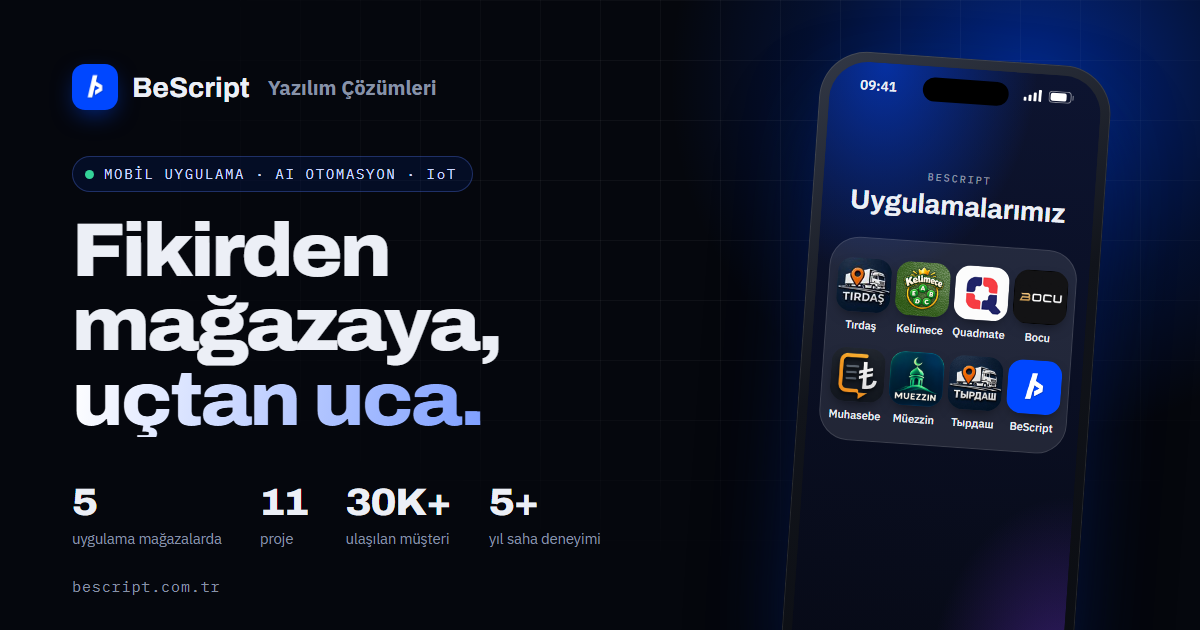
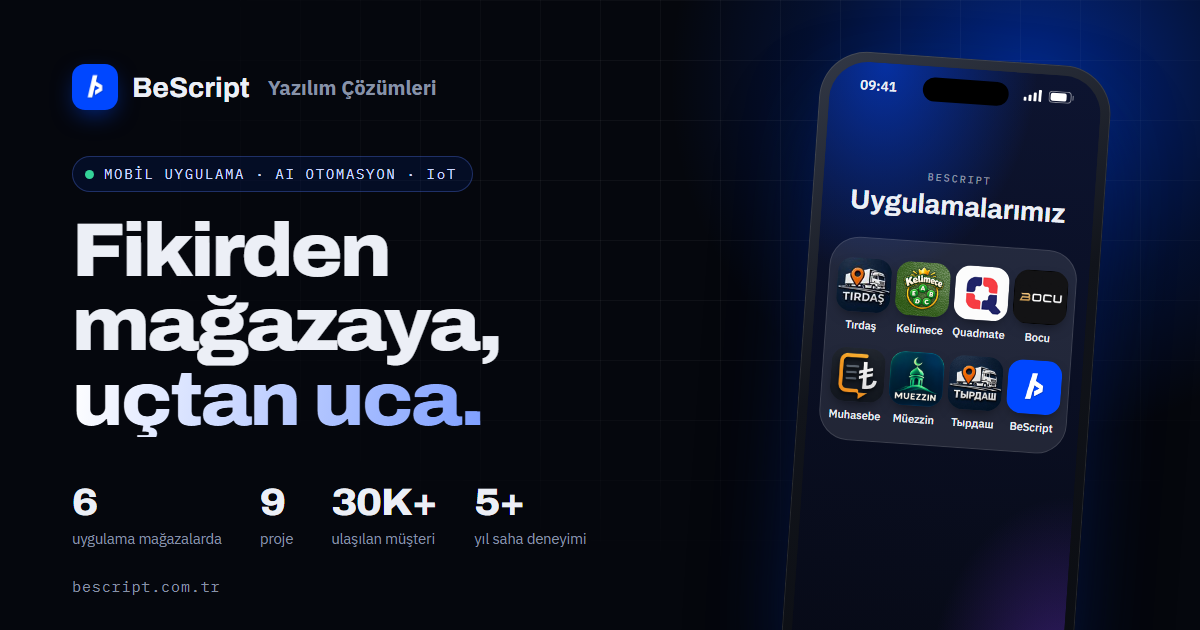
Hazır paketler kayan şerit; Тырдаш (Tirdas.kz) Google Play'de yayında, vitrine taşındı; RED-i ve CleanHome kaldırıldı

Changed region(s): [[0.2158, 0.754, 0.4933, 0.8746], [0.0617, 0.7841, 0.0925, 0.8143]]

diff --git a/index.html b/index.html
@@ -18,11 +18,11 @@
 <meta property="og:url" content="https://bescript.com.tr/">
 <meta property="og:title" content="BeScript Yazılım Çözümleri — Mobil Uygulama, AI Otomasyon ve IoT">
 <meta property="og:description" content="BeScript Yazılım Çözümleri — Kartepe/Kocaeli. Mobil uygulama, AI otomasyon ve IoT sistemleri; tasarımdan mağaza yayınına uçtan uca. Canlı sistemler ve interaktif demolar.">
-<meta property="og:image" content="https://bescript.com.tr/og-image.png?v=3">
+<meta property="og:image" content="https://bescript.com.tr/og-image.png?v=5">
 <meta name="twitter:card" content="summary_large_image">
 <meta name="twitter:title" content="BeScript Yazılım Çözümleri — Mobil Uygulama, AI Otomasyon ve IoT">
 <meta name="twitter:description" content="BeScript Yazılım Çözümleri — Kartepe/Kocaeli. Mobil uygulama, AI otomasyon ve IoT sistemleri; tasarımdan mağaza yayınına uçtan uca. Canlı sistemler ve interaktif demolar.">
-<meta name="twitter:image" content="https://bescript.com.tr/og-image.png?v=3">
+<meta name="twitter:image" content="https://bescript.com.tr/og-image.png?v=5">
 <link rel="preconnect" href="https://fonts.googleapis.com">
 <link rel="preconnect" href="https://fonts.gstatic.com" crossorigin>
 <link href="https://fonts.googleapis.com/css2?family=Archivo:wdth,wght@62..125,400..900&family=IBM+Plex+Sans:wght@400;500;600&family=IBM+Plex+Mono:wght@400;500&display=swap" rel="stylesheet">
@@ -288,7 +288,7 @@ a.badge:hover{transform:translateY(-2px)}
 .others-title{display:flex;align-items:baseline;justify-content:space-between;gap:16px;margin:76px 0 22px;flex-wrap:wrap}
 .others-title h3{font-family:'Archivo',system-ui,sans-serif;font-variation-settings:'wdth' 100,'wght' 760;font-size:26px}
 .others-title span{color:var(--muted);font-size:14.5px}
-.others{display:grid;grid-template-columns:repeat(4,1fr);gap:14px}
+.others{display:grid;grid-template-columns:repeat(auto-fit,minmax(250px,1fr));gap:14px}
 .mini{padding:22px;border:1px solid var(--line);border-radius:20px;background:rgba(255,255,255,.022);
   display:flex;flex-direction:column;transition:border-color .3s,transform .4s var(--ease)}
 .mini:hover{border-color:var(--line-2);transform:translateY(-3px)}
@@ -306,8 +306,14 @@ a.badge:hover{transform:translateY(-2px)}
 .mini .more{margin-top:auto;padding-top:16px}
 
 /* ---------------------------------------------------------------- hazir cozumler */
-.sols{display:grid;grid-template-columns:repeat(4,1fr);gap:14px}
-.sol{padding:24px;border:1px solid var(--line);border-radius:20px;background:rgba(255,255,255,.022);display:flex;flex-direction:column}
+/* kayan serit: iki kopya yan yana, yarisi kadar kayinca basa doner */
+.kayan{overflow:hidden;padding:4px 0;
+  -webkit-mask-image:linear-gradient(90deg,transparent,#000 7%,#000 93%,transparent);mask-image:linear-gradient(90deg,transparent,#000 7%,#000 93%,transparent)}
+.kayan-iz{display:flex;gap:16px;width:max-content;padding-right:16px;animation:paket 80s linear infinite}
+.kayan:focus-within .kayan-iz,.kayan.dur .kayan-iz{animation-play-state:paused}
+@media(hover:hover){.kayan:hover .kayan-iz{animation-play-state:paused}}
+@keyframes paket{to{transform:translateX(-50%)}}
+.sol{width:300px;flex:none;padding:24px;border:1px solid var(--line);border-radius:20px;background:rgba(255,255,255,.022);display:flex;flex-direction:column}
 .sol h4{font-family:'Archivo',system-ui,sans-serif;font-variation-settings:'wdth' 100,'wght' 720;font-size:18px;line-height:1.25}
 .sol p{color:var(--muted);font-size:14.5px;margin-top:10px;line-height:1.55}
 .sol-act{display:flex;gap:8px;margin-top:auto;padding-top:20px}
@@ -365,7 +371,6 @@ footer{border-top:1px solid var(--line);padding:56px 0 40px;margin-top:120px}
   .hero-grid{grid-template-columns:1fr;gap:20px}
   .stage{height:690px;max-width:560px;margin:10px auto 0;width:100%}
   .apps{grid-template-columns:1fr}
-  .others,.sols{grid-template-columns:repeat(2,1fr)}
   .grid-3{grid-template-columns:repeat(2,1fr)}
   .process{grid-template-columns:1fr;gap:40px}
   .process .sec-head{position:static}
@@ -379,10 +384,8 @@ footer{border-top:1px solid var(--line);padding:56px 0 40px;margin-top:120px}
   .stat:nth-child(2n){border-right:none}
   .stat:nth-child(n+3){border-bottom:none}
   .grid-3,.others,.prs{grid-template-columns:1fr}
-  .sols{grid-auto-flow:column;grid-template-columns:none;grid-auto-columns:82%;overflow-x:auto;scroll-snap-type:x mandatory;
-    padding-bottom:10px;margin:0 -24px;padding-left:24px;padding-right:24px;scrollbar-width:none}
-  .sols::-webkit-scrollbar{display:none}
-  .sol{scroll-snap-align:start}
+  .sol{width:270px}
+  .kayan-iz{animation-duration:60s}
   .app{grid-template-columns:1fr;min-height:0}
   .app-text{padding:28px 26px 8px}
   .app-stage{height:300px;overflow:hidden}
@@ -408,7 +411,8 @@ footer{border-top:1px solid var(--line);padding:56px 0 40px;margin-top:120px}
   .js [data-reveal],.js .hero [data-in]{opacity:0;transform:translateY(26px)}
 }
 @media (prefers-reduced-motion:reduce){
-  .float,.track,.pill i{animation:none}
+  .float,.track,.pill i,.kayan-iz{animation:none}
+  .kayan{overflow-x:auto}
   .win,.home{transition:none}
   *{transition-duration:.01ms!important}
 }
@@ -444,7 +448,7 @@ footer{border-top:1px solid var(--line);padding:56px 0 40px;margin-top:120px}
         <a class="btn btn-primary magnet" href="https://wa.me/905400010595?text=Merhaba%2C%20bir%20proje%20hakk%C4%B1nda%20konu%C5%9Fmak%20istiyorum." target="_blank" rel="noopener">Projenizi konuşalım <svg class="ok" viewBox="0 0 24 24" fill="none" stroke="currentColor" stroke-width="1.7" stroke-linecap="round" stroke-linejoin="round" aria-hidden="true"><path d="M5 12h14M13 6l6 6-6 6"/></svg></a>
         <a class="btn btn-ghost" href="#uygulamalar">Uygulamalarımızı görün</a>
       </div>
-      <div class="hero-note" data-in><span>Geliştirdiğimiz beş uygulama Google Play'de, ikisi App Store'da da yayında.</span></div>
+      <div class="hero-note" data-in><span>Geliştirdiğimiz altı uygulama Google Play'de, ikisi App Store'da da yayında.</span></div>
     </div>
 
     <div class="stage" id="stage">
@@ -470,8 +474,8 @@ footer{border-top:1px solid var(--line);padding:56px 0 40px;margin-top:120px}
 <section class="trust" aria-label="Özet">
   <div class="wrap">
     <div class="stats" data-reveal>
-      <div class="stat"><b data-count="5">5</b><span>uygulama mağazalarda</span></div>
-      <div class="stat"><b data-count="11">11</b><span>proje · canlı, test, yakında</span></div>
+      <div class="stat"><b data-count="6">6</b><span>uygulama mağazalarda</span></div>
+      <div class="stat"><b data-count="9">9</b><span>proje · canlı, test, yakında</span></div>
       <div class="stat"><b data-count="30" data-suffix="K+">30K+</b><span>tek sistemle ulaşılan müşteri</span></div>
       <div class="stat"><b data-count="5" data-suffix="+">5+</b><span>yıl saha deneyimi</span></div>
     </div>
@@ -570,20 +574,21 @@ footer{border-top:1px solid var(--line);padding:56px 0 40px;margin-top:120px}
         <div class="badges"><span class="badge badge-off"><img class="b-apple" src="/assets/badge/app-store-yakinda-tr.svg" alt="App Store'da yakında" width="151" height="40"></span><a class="badge" href="https://play.google.com/store/apps/details?id=com.bescript.muhasebedefterim" target="_blank" rel="noopener"><img class="b-google" src="/assets/badge/google-play-tr.png" alt="Google Play'den alın" width="646" height="250"></a></div>
       </div>
       <div class="app-stage"><div class="phone sm"><div class="scr"><img src="/telefon/muhasebe/1.webp" alt="Muhasebe Defterim uygulama ekranı" loading="lazy"></div></div></div>
+    </article><article class="app spot" style="--ac:0,175,202" data-reveal>
+      <div class="app-text">
+        <div class="app-id"><img class="app-logo" src="/assets/logo/tirdaskz.jpg" alt="" width="52" height="52" loading="lazy">
+          <div><h3>Тырдаш</h3><span>Tirdas.kz · Kazakistan sürümü</span></div></div>
+        <p>Tırdaş'ın Kazakistan pazarına uyarlanan sürümü. Yük ve araç sahiplerini aynı havuzda buluşturur; ilanlar ve gelir-gider takibi tenge (₸) ile.</p>
+        <div class="chips"><span>react native</span><span>openai</span><span>postgresql</span><span>çok dilli</span></div>
+        <div class="badges"><span class="badge badge-off"><img class="b-apple" src="/assets/badge/app-store-yakinda-tr.svg" alt="App Store'da yakında" width="151" height="40"></span><a class="badge" href="https://play.google.com/store/apps/details?id=com.tirdas.kz" target="_blank" rel="noopener"><img class="b-google" src="/assets/badge/google-play-tr.png" alt="Google Play'den alın" width="646" height="250"></a></div>
+      </div>
+      <div class="app-stage"><div class="phone sm"><div class="scr"><img src="/telefon/tirdaskz/1.webp" alt="Тырдаш uygulama ekranı" loading="lazy"></div></div></div>
     </article></div>
-    <div class="others-title" data-reveal><h3>Diğer projeler</h3><span>yolda olan uygulamalar, web siteleri ve demolar</span></div>
+    <div class="others-title" data-reveal><h3>Diğer projeler</h3><span>yolda olan uygulamalar ve demolar</span></div>
     <div class="others"><article class="mini spot" data-reveal>
       <div class="mini-top"><span class="mini-logo"><img src="/assets/logo/muezzin.png" alt=""></span><span class="st st-yakinda">Yakında</span></div>
       <h4>Müezzin</h4><p>Namaz vakitleri, günlük namaz ve Hanefi kaza takibi; ezan bildirimleriyle.</p>
       
-    </article><article class="mini spot" data-reveal>
-      <div class="mini-top"><span class="mini-logo"><img src="/assets/logo/tirdaskz.jpg" alt=""></span><span class="st st-test">Kapalı test</span></div>
-      <h4>Tirdas.kz</h4><p>Tırdaş'ın Kazakistan pazarına uyarlanan sürümü.</p>
-      
-    </article><article class="mini spot" data-reveal>
-      <div class="mini-top"><span class="mini-logo"><img src="/assets/logo/cleanhome.svg" alt=""></span><span class="st st-canli">Canlı</span></div>
-      <h4>CleanHome</h4><p>Kocaeli merkezli temizlik şirketi için kurumsal site; teslimden beri kesintisiz yayında.</p>
-      <a class="more" href="https://cleanhome.com.tr" target="_blank" rel="noopener">Siteyi aç ↗</a>
     </article><article class="mini spot" data-reveal>
       <div class="mini-top"><span class="mini-logo"><img src="/assets/logo/truemax.svg" alt=""></span><span class="st st-demo">Demo</span></div>
       <h4>TrueMax.ai</h4><p>Emlak için yapay zekâ lead botu: 30.000+ mülk sahibine ulaştı, 2.778 iş birliği onayı.</p>
@@ -592,10 +597,6 @@ footer{border-top:1px solid var(--line);padding:56px 0 40px;margin-top:120px}
       <div class="mini-top"><span class="mini-logo"><span class="mono-logo">▦</span></span><span class="st st-demo">Demo</span></div>
       <h4>Danışman Paneli</h4><p>Gayrimenkul ofisi için canlı performans panosu; 40+ danışmanla sahada çalıştı.</p>
       <a class="more" href="/dashboard/">Demoyu dene</a>
-    </article><article class="mini spot" data-reveal>
-      <div class="mini-top"><span class="mini-logo"><img src="/assets/logo/red-i.png" alt=""></span><span class="st st-demo">Demo</span></div>
-      <h4>RED-i</h4><p>TrueMax motorunun RedPartners kurulumu; yanıt analizi ve sunum demo sayfasında.</p>
-      <a class="more" href="/red-i/">Demoyu dene</a>
     </article></div>
   </div>
 </section>
@@ -607,40 +608,72 @@ footer{border-top:1px solid var(--line);padding:56px 0 40px;margin-top:120px}
       <h2>Hızlı başlamak için hazır paketler.</h2>
       <p>Dene, beğen, sipariş ver. Her paket işinize göre özelleştirilir.</p>
     </div>
-    <div class="sols"><article class="sol spot" data-reveal>
+  </div>
+  <div class="kayan" id="kayan" data-reveal><div class="kayan-iz"><article class="sol spot">
       <h4>AI Müşteri Temsilcisi</h4><p>WhatsApp'ta 7/24 yanıt veren, randevu ve sipariş alan yapay zekâ temsilci. Demoda 5 sektör var.</p>
       <div class="sol-act"><a class="btn btn-ghost sm" href="/cozumler/chatbot/">Dene <svg class="ok" viewBox="0 0 24 24" fill="none" stroke="currentColor" stroke-width="1.7" stroke-linecap="round" stroke-linejoin="round" aria-hidden="true"><path d="M5 12h14M13 6l6 6-6 6"/></svg></a>
       <a class="btn btn-wa sm" href="https://wa.me/905400010595?text=Merhaba%2C%20%22AI%20M%C3%BC%C5%9Fteri%20Temsilcisi%22%20i%C3%A7in%20sipari%C5%9F%20olu%C5%9Fturmak%20istiyorum." target="_blank" rel="noopener">Sipariş ver</a></div>
-    </article><article class="sol spot" data-reveal>
+    </article><article class="sol spot">
       <h4>Mobil Uygulama</h4><p>iOS ve Android'e tek kod tabanıyla çıkan uygulamalar. Mağaza yayını ve güncellemeler dahil.</p>
       <div class="sol-act"><a class="btn btn-ghost sm" href="/cozumler/mobil/">Dene <svg class="ok" viewBox="0 0 24 24" fill="none" stroke="currentColor" stroke-width="1.7" stroke-linecap="round" stroke-linejoin="round" aria-hidden="true"><path d="M5 12h14M13 6l6 6-6 6"/></svg></a>
       <a class="btn btn-wa sm" href="https://wa.me/905400010595?text=Merhaba%2C%20%22Mobil%20Uygulama%22%20i%C3%A7in%20sipari%C5%9F%20olu%C5%9Fturmak%20istiyorum." target="_blank" rel="noopener">Sipariş ver</a></div>
-    </article><article class="sol spot" data-reveal>
+    </article><article class="sol spot">
       <h4>QR Menü & Dijital Katalog</h4><p>Masadaki QR'dan açılan menü: kategoriler, fotoğraflar, sepet, garson çağırma.</p>
       <div class="sol-act"><a class="btn btn-ghost sm" href="/cozumler/qrmenu/">Dene <svg class="ok" viewBox="0 0 24 24" fill="none" stroke="currentColor" stroke-width="1.7" stroke-linecap="round" stroke-linejoin="round" aria-hidden="true"><path d="M5 12h14M13 6l6 6-6 6"/></svg></a>
       <a class="btn btn-wa sm" href="https://wa.me/905400010595?text=Merhaba%2C%20%22QR%20Men%C3%BC%20%26%20Dijital%20Katalog%22%20i%C3%A7in%20sipari%C5%9F%20olu%C5%9Fturmak%20istiyorum." target="_blank" rel="noopener">Sipariş ver</a></div>
-    </article><article class="sol spot" data-reveal>
+    </article><article class="sol spot">
       <h4>Web'den Excel'e Veri Toplama</h4><p>İlanlar, fiyatlar, rakip listeleri: web'den otomatik toplayıp temiz Excel tablosuna çevirir.</p>
       <div class="sol-act"><a class="btn btn-ghost sm" href="/cozumler/veri/">Dene <svg class="ok" viewBox="0 0 24 24" fill="none" stroke="currentColor" stroke-width="1.7" stroke-linecap="round" stroke-linejoin="round" aria-hidden="true"><path d="M5 12h14M13 6l6 6-6 6"/></svg></a>
       <a class="btn btn-wa sm" href="https://wa.me/905400010595?text=Merhaba%2C%20%22Web%27den%20Excel%27e%20Veri%20Toplama%22%20i%C3%A7in%20sipari%C5%9F%20olu%C5%9Fturmak%20istiyorum." target="_blank" rel="noopener">Sipariş ver</a></div>
-    </article><article class="sol spot" data-reveal>
+    </article><article class="sol spot">
       <h4>Telegram İş Botu</h4><p>İstediğiniz kaynağı 7/24 izler; koşul sağlanınca Telegram'a bildirim düşürür.</p>
       <div class="sol-act"><a class="btn btn-ghost sm" href="/cozumler/telegram/">Dene <svg class="ok" viewBox="0 0 24 24" fill="none" stroke="currentColor" stroke-width="1.7" stroke-linecap="round" stroke-linejoin="round" aria-hidden="true"><path d="M5 12h14M13 6l6 6-6 6"/></svg></a>
       <a class="btn btn-wa sm" href="https://wa.me/905400010595?text=Merhaba%2C%20%22Telegram%20%C4%B0%C5%9F%20Botu%22%20i%C3%A7in%20sipari%C5%9F%20olu%C5%9Fturmak%20istiyorum." target="_blank" rel="noopener">Sipariş ver</a></div>
-    </article><article class="sol spot" data-reveal>
+    </article><article class="sol spot">
       <h4>Sektörel KPI Dashboard'u</h4><p>Excel, Sheets ya da POS verisi tek panoda: ciro, trend, karşılaştırma, TV modu.</p>
       <div class="sol-act"><a class="btn btn-ghost sm" href="/cozumler/dashboard/">Dene <svg class="ok" viewBox="0 0 24 24" fill="none" stroke="currentColor" stroke-width="1.7" stroke-linecap="round" stroke-linejoin="round" aria-hidden="true"><path d="M5 12h14M13 6l6 6-6 6"/></svg></a>
       <a class="btn btn-wa sm" href="https://wa.me/905400010595?text=Merhaba%2C%20%22Sekt%C3%B6rel%20KPI%20Dashboard%27u%22%20i%C3%A7in%20sipari%C5%9F%20olu%C5%9Fturmak%20istiyorum." target="_blank" rel="noopener">Sipariş ver</a></div>
-    </article><article class="sol spot" data-reveal>
+    </article><article class="sol spot">
       <h4>Entegrasyon & Otomasyon</h4><p>Form doldu, CRM'e yazıldı, WhatsApp onayı gitti: elle taşınan işi otomatiğe alırız.</p>
       <div class="sol-act"><a class="btn btn-ghost sm" href="/cozumler/entegrasyon/">Dene <svg class="ok" viewBox="0 0 24 24" fill="none" stroke="currentColor" stroke-width="1.7" stroke-linecap="round" stroke-linejoin="round" aria-hidden="true"><path d="M5 12h14M13 6l6 6-6 6"/></svg></a>
       <a class="btn btn-wa sm" href="https://wa.me/905400010595?text=Merhaba%2C%20%22Entegrasyon%20%26%20Otomasyon%22%20i%C3%A7in%20sipari%C5%9F%20olu%C5%9Fturmak%20istiyorum." target="_blank" rel="noopener">Sipariş ver</a></div>
-    </article><article class="sol spot" data-reveal>
+    </article><article class="sol spot">
       <h4>Kripto Alım-Satım Botu</h4><p>Kendi stratejinizi borsa API'si üzerinden çalıştıran bot; önce paper-trading modunda denenir.</p>
       <div class="sol-act"><a class="btn btn-ghost sm" href="/kripto-bot/">Dene <svg class="ok" viewBox="0 0 24 24" fill="none" stroke="currentColor" stroke-width="1.7" stroke-linecap="round" stroke-linejoin="round" aria-hidden="true"><path d="M5 12h14M13 6l6 6-6 6"/></svg></a>
       <a class="btn btn-wa sm" href="https://wa.me/905400010595?text=Merhaba%2C%20%22Kripto%20Al%C4%B1m-Sat%C4%B1m%20Botu%22%20i%C3%A7in%20sipari%C5%9F%20olu%C5%9Fturmak%20istiyorum." target="_blank" rel="noopener">Sipariş ver</a></div>
-    </article></div>
-  </div>
+    </article><article class="sol spot" aria-hidden="true">
+      <h4>AI Müşteri Temsilcisi</h4><p>WhatsApp'ta 7/24 yanıt veren, randevu ve sipariş alan yapay zekâ temsilci. Demoda 5 sektör var.</p>
+      <div class="sol-act"><a tabindex="-1" class="btn btn-ghost sm" href="/cozumler/chatbot/">Dene <svg class="ok" viewBox="0 0 24 24" fill="none" stroke="currentColor" stroke-width="1.7" stroke-linecap="round" stroke-linejoin="round" aria-hidden="true"><path d="M5 12h14M13 6l6 6-6 6"/></svg></a>
+      <a tabindex="-1" class="btn btn-wa sm" href="https://wa.me/905400010595?text=Merhaba%2C%20%22AI%20M%C3%BC%C5%9Fteri%20Temsilcisi%22%20i%C3%A7in%20sipari%C5%9F%20olu%C5%9Fturmak%20istiyorum." target="_blank" rel="noopener">Sipariş ver</a></div>
+    </article><article class="sol spot" aria-hidden="true">
+      <h4>Mobil Uygulama</h4><p>iOS ve Android'e tek kod tabanıyla çıkan uygulamalar. Mağaza yayını ve güncellemeler dahil.</p>
+      <div class="sol-act"><a tabindex="-1" class="btn btn-ghost sm" href="/cozumler/mobil/">Dene <svg class="ok" viewBox="0 0 24 24" fill="none" stroke="currentColor" stroke-width="1.7" stroke-linecap="round" stroke-linejoin="round" aria-hidden="true"><path d="M5 12h14M13 6l6 6-6 6"/></svg></a>
+      <a tabindex="-1" class="btn btn-wa sm" href="https://wa.me/905400010595?text=Merhaba%2C%20%22Mobil%20Uygulama%22%20i%C3%A7in%20sipari%C5%9F%20olu%C5%9Fturmak%20istiyorum." target="_blank" rel="noopener">Sipariş ver</a></div>
+    </article><article class="sol spot" aria-hidden="true">
+      <h4>QR Menü & Dijital Katalog</h4><p>Masadaki QR'dan açılan menü: kategoriler, fotoğraflar, sepet, garson çağırma.</p>
+      <div class="sol-act"><a tabindex="-1" class="btn btn-ghost sm" href="/cozumler/qrmenu/">Dene <svg class="ok" viewBox="0 0 24 24" fill="none" stroke="currentColor" stroke-width="1.7" stroke-linecap="round" stroke-linejoin="round" aria-hidden="true"><path d="M5 12h14M13 6l6 6-6 6"/></svg></a>
+      <a tabindex="-1" class="btn btn-wa sm" href="https://wa.me/905400010595?text=Merhaba%2C%20%22QR%20Men%C3%BC%20%26%20Dijital%20Katalog%22%20i%C3%A7in%20sipari%C5%9F%20olu%C5%9Fturmak%20istiyorum." target="_blank" rel="noopener">Sipariş ver</a></div>
+    </article><article class="sol spot" aria-hidden="true">
+      <h4>Web'den Excel'e Veri Toplama</h4><p>İlanlar, fiyatlar, rakip listeleri: web'den otomatik toplayıp temiz Excel tablosuna çevirir.</p>
+      <div class="sol-act"><a tabindex="-1" class="btn btn-ghost sm" href="/cozumler/veri/">Dene <svg class="ok" viewBox="0 0 24 24" fill="none" stroke="currentColor" stroke-width="1.7" stroke-linecap="round" stroke-linejoin="round" aria-hidden="true"><path d="M5 12h14M13 6l6 6-6 6"/></svg></a>
+      <a tabindex="-1" class="btn btn-wa sm" href="https://wa.me/905400010595?text=Merhaba%2C%20%22Web%27den%20Excel%27e%20Veri%20Toplama%22%20i%C3%A7in%20sipari%C5%9F%20olu%C5%9Fturmak%20istiyorum." target="_blank" rel="noopener">Sipariş ver</a></div>
+    </article><article class="sol spot" aria-hidden="true">
+      <h4>Telegram İş Botu</h4><p>İstediğiniz kaynağı 7/24 izler; koşul sağlanınca Telegram'a bildirim düşürür.</p>
+      <div class="sol-act"><a tabindex="-1" class="btn btn-ghost sm" href="/cozumler/telegram/">Dene <svg class="ok" viewBox="0 0 24 24" fill="none" stroke="currentColor" stroke-width="1.7" stroke-linecap="round" stroke-linejoin="round" aria-hidden="true"><path d="M5 12h14M13 6l6 6-6 6"/></svg></a>
+      <a tabindex="-1" class="btn btn-wa sm" href="https://wa.me/905400010595?text=Merhaba%2C%20%22Telegram%20%C4%B0%C5%9F%20Botu%22%20i%C3%A7in%20sipari%C5%9F%20olu%C5%9Fturmak%20istiyorum." target="_blank" rel="noopener">Sipariş ver</a></div>
+    </article><article class="sol spot" aria-hidden="true">
+      <h4>Sektörel KPI Dashboard'u</h4><p>Excel, Sheets ya da POS verisi tek panoda: ciro, trend, karşılaştırma, TV modu.</p>
+      <div class="sol-act"><a tabindex="-1" class="btn btn-ghost sm" href="/cozumler/dashboard/">Dene <svg class="ok" viewBox="0 0 24 24" fill="none" stroke="currentColor" stroke-width="1.7" stroke-linecap="round" stroke-linejoin="round" aria-hidden="true"><path d="M5 12h14M13 6l6 6-6 6"/></svg></a>
+      <a tabindex="-1" class="btn btn-wa sm" href="https://wa.me/905400010595?text=Merhaba%2C%20%22Sekt%C3%B6rel%20KPI%20Dashboard%27u%22%20i%C3%A7in%20sipari%C5%9F%20olu%C5%9Fturmak%20istiyorum." target="_blank" rel="noopener">Sipariş ver</a></div>
+    </article><article class="sol spot" aria-hidden="true">
+      <h4>Entegrasyon & Otomasyon</h4><p>Form doldu, CRM'e yazıldı, WhatsApp onayı gitti: elle taşınan işi otomatiğe alırız.</p>
+      <div class="sol-act"><a tabindex="-1" class="btn btn-ghost sm" href="/cozumler/entegrasyon/">Dene <svg class="ok" viewBox="0 0 24 24" fill="none" stroke="currentColor" stroke-width="1.7" stroke-linecap="round" stroke-linejoin="round" aria-hidden="true"><path d="M5 12h14M13 6l6 6-6 6"/></svg></a>
+      <a tabindex="-1" class="btn btn-wa sm" href="https://wa.me/905400010595?text=Merhaba%2C%20%22Entegrasyon%20%26%20Otomasyon%22%20i%C3%A7in%20sipari%C5%9F%20olu%C5%9Fturmak%20istiyorum." target="_blank" rel="noopener">Sipariş ver</a></div>
+    </article><article class="sol spot" aria-hidden="true">
+      <h4>Kripto Alım-Satım Botu</h4><p>Kendi stratejinizi borsa API'si üzerinden çalıştıran bot; önce paper-trading modunda denenir.</p>
+      <div class="sol-act"><a tabindex="-1" class="btn btn-ghost sm" href="/kripto-bot/">Dene <svg class="ok" viewBox="0 0 24 24" fill="none" stroke="currentColor" stroke-width="1.7" stroke-linecap="round" stroke-linejoin="round" aria-hidden="true"><path d="M5 12h14M13 6l6 6-6 6"/></svg></a>
+      <a tabindex="-1" class="btn btn-wa sm" href="https://wa.me/905400010595?text=Merhaba%2C%20%22Kripto%20Al%C4%B1m-Sat%C4%B1m%20Botu%22%20i%C3%A7in%20sipari%C5%9F%20olu%C5%9Fturmak%20istiyorum." target="_blank" rel="noopener">Sipariş ver</a></div>
+    </article></div></div>
 </section>
 
 <section id="surec">
@@ -908,6 +941,11 @@ document.addEventListener("DOMContentLoaded", function(){
     bekle(2600, dongu);
   }
 
+  /* hazir paketler: dokununca serit durur, birakinca bir sure sonra devam eder */
+  var kayan = document.getElementById("kayan"), kayanZ;
+  kayan.addEventListener("touchstart", function(){ clearTimeout(kayanZ); kayan.classList.add("dur"); }, {passive:true});
+  kayan.addEventListener("touchend", function(){ kayanZ = setTimeout(function(){ kayan.classList.remove("dur"); }, 3500); });
+
   /* imleci takip eden isik */
   document.querySelectorAll(".spot").forEach(function(el){
     el.addEventListener("pointermove", function(e){
@@ -976,7 +1014,7 @@ setTimeout(function(){ if (!window.gsap) document.documentElement.classList.remo
   "description": "Mobil uygulama, AI otomasyon ve IoT sistemleri; tasarımdan mağaza yayınına uçtan uca yazılım geliştirme.",
   "url": "https://bescript.com.tr/",
   "logo": "https://bescript.com.tr/assets/logo/brand-512.png",
-  "image": "https://bescript.com.tr/og-image.png?v=3",
+  "image": "https://bescript.com.tr/og-image.png?v=5",
   "email": "mailto:bescript.yazilim@gmail.com",
   "telephone": "+90-540-001-05-95",
   "priceRange": "$$",

diff --git a/hakkimizda/index.html b/hakkimizda/index.html
@@ -17,11 +17,11 @@
 <meta property="og:url" content="https://bescript.com.tr/hakkimizda/">
 <meta property="og:title" content="Hakkımızda — BeScript Yazılım Çözümleri">
 <meta property="og:description" content="Mobil uygulama, AI otomasyon ve IoT sistemleri; tasarımdan mağaza yayınına uçtan uca.">
-<meta property="og:image" content="https://bescript.com.tr/og-image.png?v=3">
+<meta property="og:image" content="https://bescript.com.tr/og-image.png?v=5">
 <meta name="twitter:card" content="summary_large_image">
 <meta name="twitter:title" content="Hakkımızda — BeScript Yazılım Çözümleri">
 <meta name="twitter:description" content="Mobil uygulama, AI otomasyon ve IoT sistemleri; tasarımdan mağaza yayınına uçtan uca.">
-<meta name="twitter:image" content="https://bescript.com.tr/og-image.png?v=3">
+<meta name="twitter:image" content="https://bescript.com.tr/og-image.png?v=5">
 <link rel="preconnect" href="https://fonts.googleapis.com">
 <link rel="preconnect" href="https://fonts.gstatic.com" crossorigin>
 <link href="https://fonts.googleapis.com/css2?family=Archivo:wdth,wght@62..125,400..900&family=IBM+Plex+Sans:wght@400;500;600&family=IBM+Plex+Mono:wght@400;500&display=swap" rel="stylesheet">
@@ -287,7 +287,7 @@ a.badge:hover{transform:translateY(-2px)}
 .others-title{display:flex;align-items:baseline;justify-content:space-between;gap:16px;margin:76px 0 22px;flex-wrap:wrap}
 .others-title h3{font-family:'Archivo',system-ui,sans-serif;font-variation-settings:'wdth' 100,'wght' 760;font-size:26px}
 .others-title span{color:var(--muted);font-size:14.5px}
-.others{display:grid;grid-template-columns:repeat(4,1fr);gap:14px}
+.others{display:grid;grid-template-columns:repeat(auto-fit,minmax(250px,1fr));gap:14px}
 .mini{padding:22px;border:1px solid var(--line);border-radius:20px;background:rgba(255,255,255,.022);
   display:flex;flex-direction:column;transition:border-color .3s,transform .4s var(--ease)}
 .mini:hover{border-color:var(--line-2);transform:translateY(-3px)}
@@ -305,8 +305,14 @@ a.badge:hover{transform:translateY(-2px)}
 .mini .more{margin-top:auto;padding-top:16px}
 
 /* ---------------------------------------------------------------- hazir cozumler */
-.sols{display:grid;grid-template-columns:repeat(4,1fr);gap:14px}
-.sol{padding:24px;border:1px solid var(--line);border-radius:20px;background:rgba(255,255,255,.022);display:flex;flex-direction:column}
+/* kayan serit: iki kopya yan yana, yarisi kadar kayinca basa doner */
+.kayan{overflow:hidden;padding:4px 0;
+  -webkit-mask-image:linear-gradient(90deg,transparent,#000 7%,#000 93%,transparent);mask-image:linear-gradient(90deg,transparent,#000 7%,#000 93%,transparent)}
+.kayan-iz{display:flex;gap:16px;width:max-content;padding-right:16px;animation:paket 80s linear infinite}
+.kayan:focus-within .kayan-iz,.kayan.dur .kayan-iz{animation-play-state:paused}
+@media(hover:hover){.kayan:hover .kayan-iz{animation-play-state:paused}}
+@keyframes paket{to{transform:translateX(-50%)}}
+.sol{width:300px;flex:none;padding:24px;border:1px solid var(--line);border-radius:20px;background:rgba(255,255,255,.022);display:flex;flex-direction:column}
 .sol h4{font-family:'Archivo',system-ui,sans-serif;font-variation-settings:'wdth' 100,'wght' 720;font-size:18px;line-height:1.25}
 .sol p{color:var(--muted);font-size:14.5px;margin-top:10px;line-height:1.55}
 .sol-act{display:flex;gap:8px;margin-top:auto;padding-top:20px}
@@ -364,7 +370,6 @@ footer{border-top:1px solid var(--line);padding:56px 0 40px;margin-top:120px}
   .hero-grid{grid-template-columns:1fr;gap:20px}
   .stage{height:690px;max-width:560px;margin:10px auto 0;width:100%}
   .apps{grid-template-columns:1fr}
-  .others,.sols{grid-template-columns:repeat(2,1fr)}
   .grid-3{grid-template-columns:repeat(2,1fr)}
   .process{grid-template-columns:1fr;gap:40px}
   .process .sec-head{position:static}
@@ -378,10 +383,8 @@ footer{border-top:1px solid var(--line);padding:56px 0 40px;margin-top:120px}
   .stat:nth-child(2n){border-right:none}
   .stat:nth-child(n+3){border-bottom:none}
   .grid-3,.others,.prs{grid-template-columns:1fr}
-  .sols{grid-auto-flow:column;grid-template-columns:none;grid-auto-columns:82%;overflow-x:auto;scroll-snap-type:x mandatory;
-    padding-bottom:10px;margin:0 -24px;padding-left:24px;padding-right:24px;scrollbar-width:none}
-  .sols::-webkit-scrollbar{display:none}
-  .sol{scroll-snap-align:start}
+  .sol{width:270px}
+  .kayan-iz{animation-duration:60s}
   .app{grid-template-columns:1fr;min-height:0}
   .app-text{padding:28px 26px 8px}
   .app-stage{height:300px;overflow:hidden}
@@ -407,7 +410,8 @@ footer{border-top:1px solid var(--line);padding:56px 0 40px;margin-top:120px}
   .js [data-reveal],.js .hero [data-in]{opacity:0;transform:translateY(26px)}
 }
 @media (prefers-reduced-motion:reduce){
-  .float,.track,.pill i{animation:none}
+  .float,.track,.pill i,.kayan-iz{animation:none}
+  .kayan{overflow-x:auto}
   .win,.home{transition:none}
   *{transition-duration:.01ms!important}
 }
@@ -502,8 +506,8 @@ footer{border-top:1px solid var(--line);padding:56px 0 40px;margin-top:120px}
 <section class="trust" aria-label="Özet">
   <div class="wrap">
     <div class="stats" data-reveal>
-      <div class="stat"><b data-count="5">5</b><span>uygulama mağazalarda</span></div>
-      <div class="stat"><b data-count="11">11</b><span>proje · canlı, test, yakında</span></div>
+      <div class="stat"><b data-count="6">6</b><span>uygulama mağazalarda</span></div>
+      <div class="stat"><b data-count="9">9</b><span>proje · canlı, test, yakında</span></div>
       <div class="stat"><b data-count="30" data-suffix="K+">30K+</b><span>tek sistemle ulaşılan müşteri</span></div>
       <div class="stat"><b data-count="5" data-suffix="+">5+</b><span>yıl saha deneyimi</span></div>
     </div>
